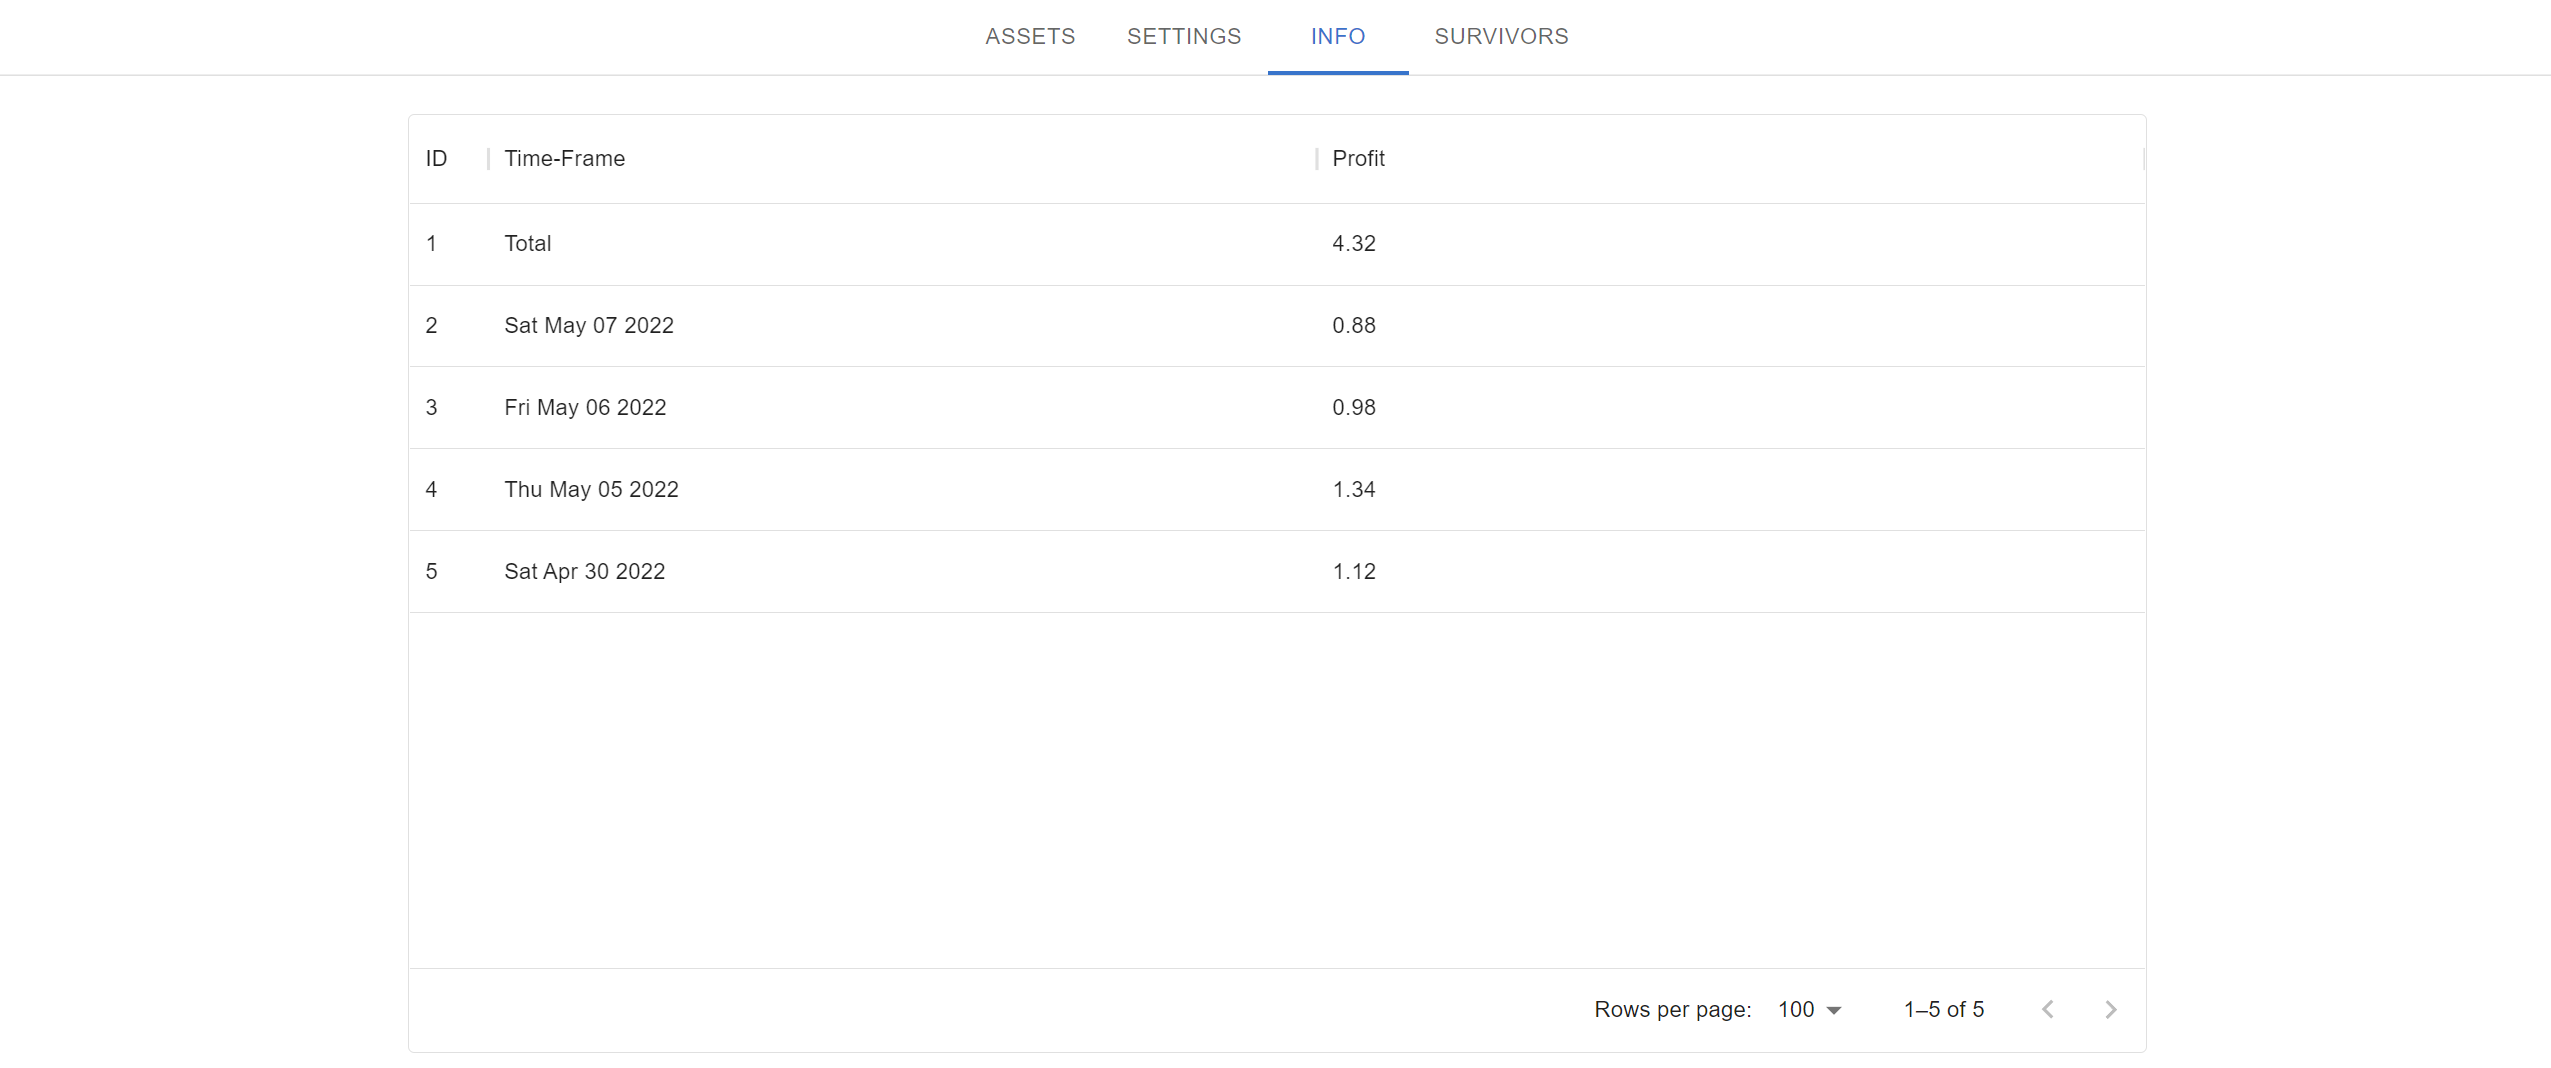
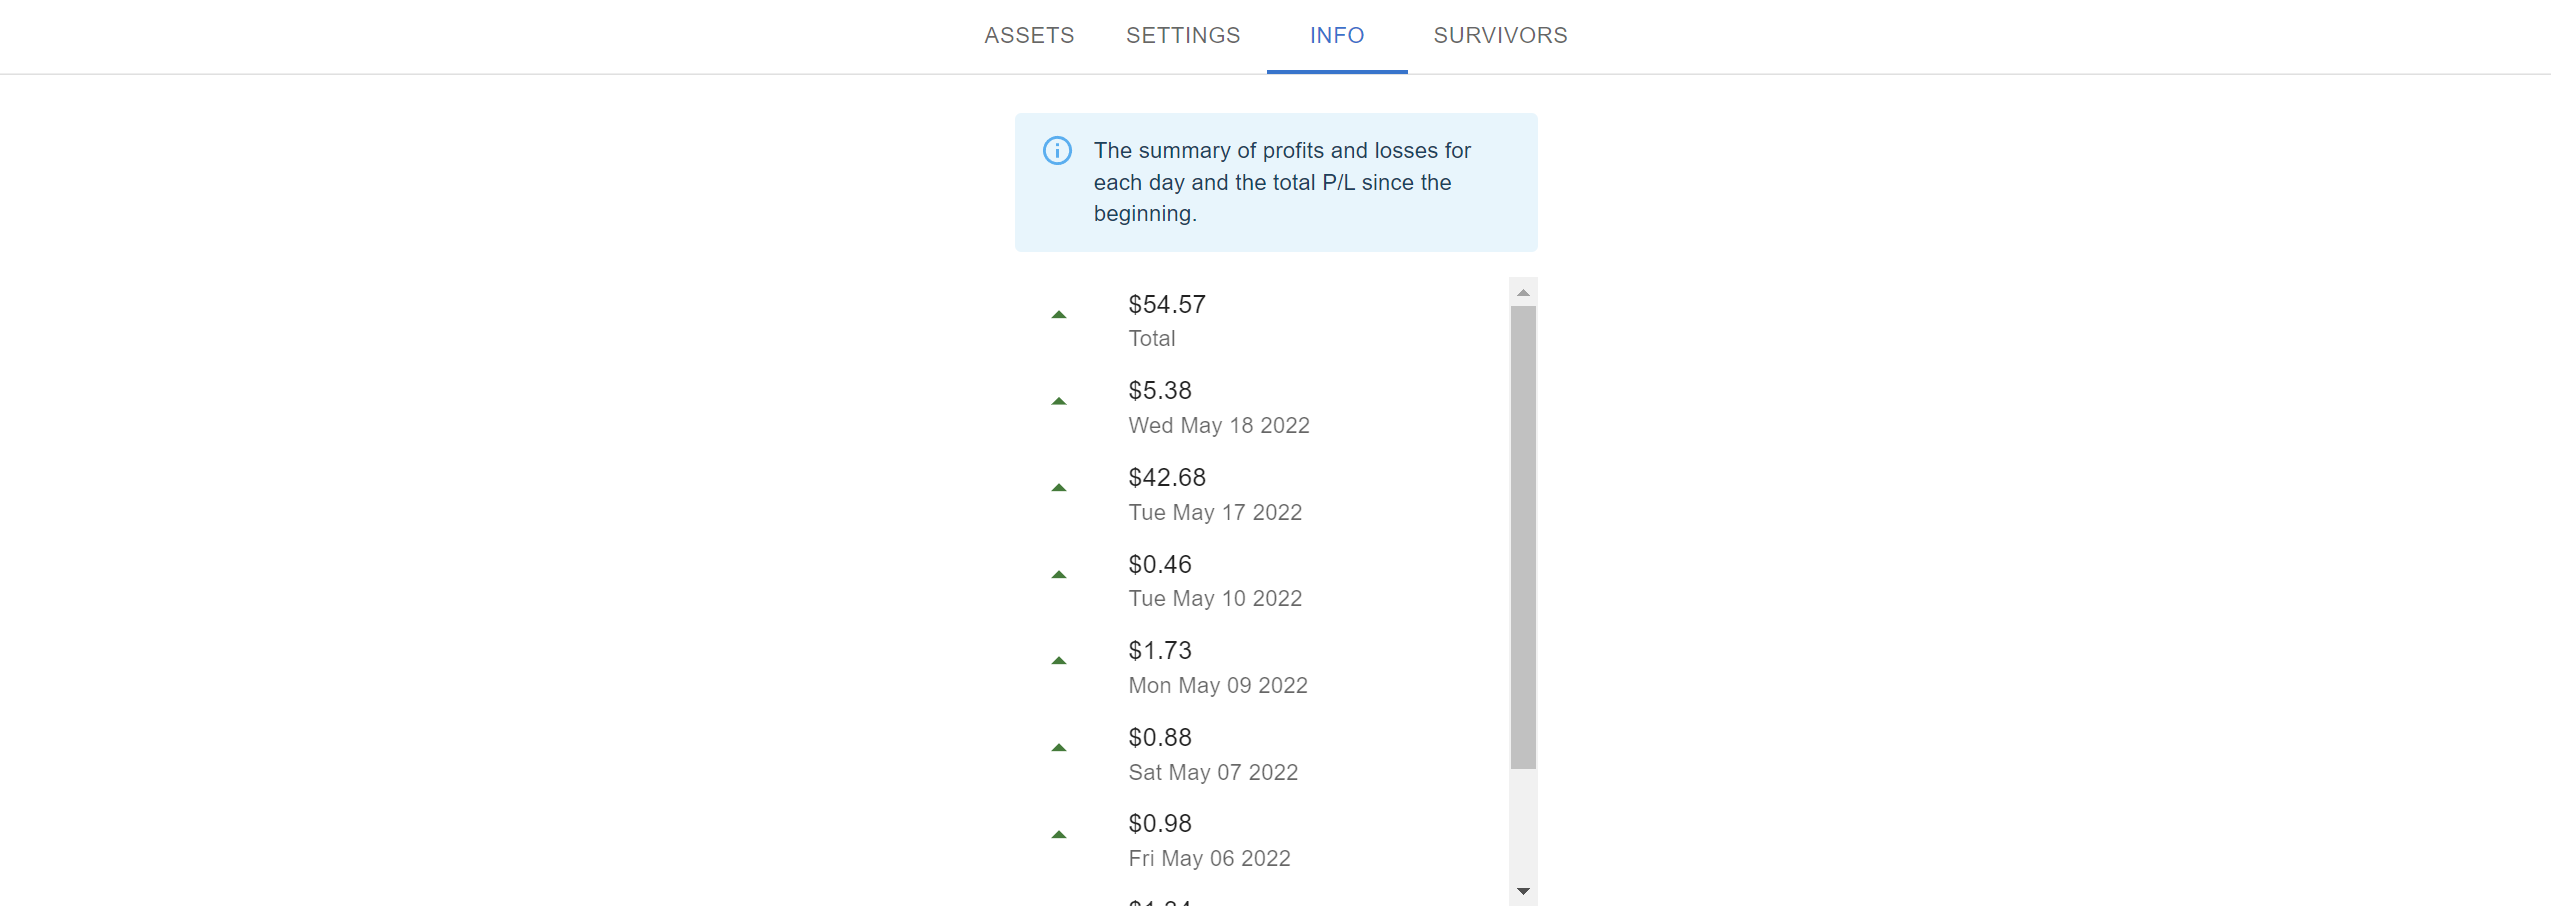
Update infos and imgs

diff --git a/src/components/Info.tsx b/src/components/Info.tsx
@@ -1,7 +1,7 @@
 import * as React from "react";
 import {useEffect} from "react";
 import {Stats} from "../../apps-script/Statistics";
-import {Box, ListItem, ListItemAvatar, ListItemText} from "@mui/material";
+import {Alert, Box, ListItem, ListItemAvatar, ListItemText, Stack} from "@mui/material";
 import {FixedSizeList} from 'react-window';
 import {ArrowDropDown, ArrowDropUp} from "@mui/icons-material";
 
@@ -25,24 +25,29 @@ export function Info() {
 
   return (
     <Box sx={{justifyContent: 'center', display: 'flex'}}>
-      <FixedSizeList
-        width={332}
-        height={400}
-        itemSize={55}
-        itemCount={rows.length}
-        overscanCount={5}
-      >
-        {
-          ({index, style}) => {
-            const up = rows[index].profit >= 0;
-            const icon = up ? <ArrowDropUp color={"success"}/> : <ArrowDropDown color={"error"}/>;
-            return <ListItem style={style} key={index} component="div">
-              <ListItemAvatar>{icon}</ListItemAvatar>
-              <ListItemText primary={rows[index].profit} secondary={rows[index].timeFrame}/>
-            </ListItem>;
+      <Stack spacing={2}>
+        <Alert sx={{width: 332}} severity={"info"}>
+          The summary of realised profits and losses for each day and the total P/L since the beginning.
+        </Alert>
+        <FixedSizeList
+          width={332}
+          height={400}
+          itemSize={55}
+          itemCount={rows.length}
+          overscanCount={5}
+        >
+          {
+            ({index, style}) => {
+              const up = rows[index].profit >= 0;
+              const icon = up ? <ArrowDropUp color={"success"}/> : <ArrowDropDown color={"error"}/>;
+              return <ListItem style={style} key={index} component="div">
+                <ListItemAvatar>{icon}</ListItemAvatar>
+                <ListItemText primary={'$' + rows[index].profit} secondary={rows[index].timeFrame}/>
+              </ListItem>;
+            }
           }
-        }
-      </FixedSizeList>
+        </FixedSizeList>
+      </Stack>
     </Box>
   );
 }
